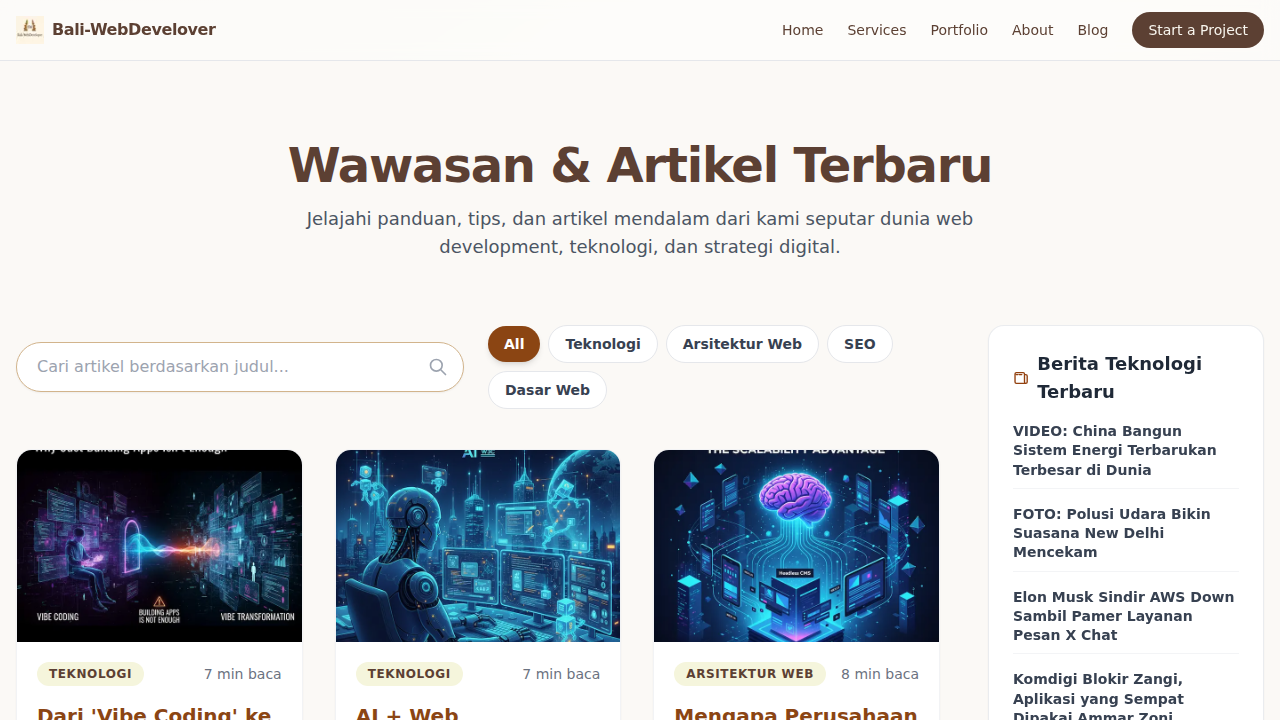
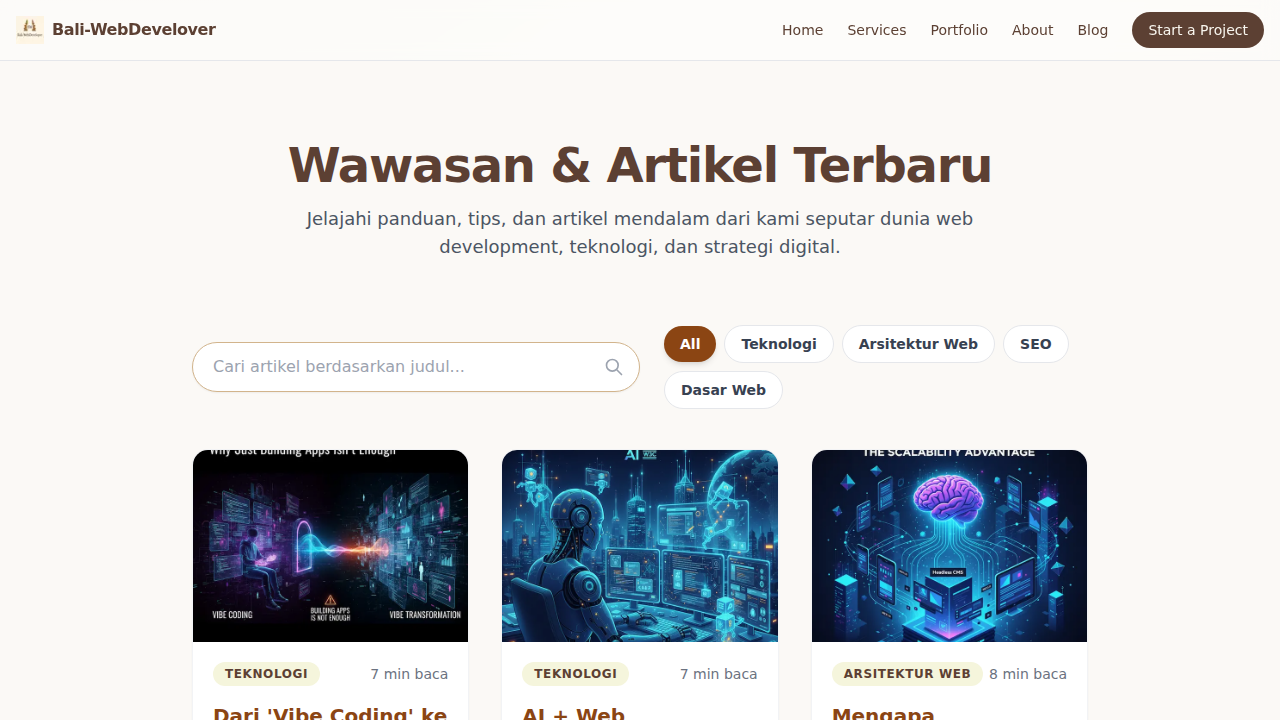
feat: Hapus sidebar berita trending
Menghapus komponen sidebar berita trending ("Berita Teknologi Terbaru") dari halaman daftar blog dan halaman artikel individual sesuai permintaan.

- Menghapus komponen `TrendingNews.tsx`.
- Menghapus file `trends.ts` yang berisi logika untuk mengambil data dari RSS feed.
- Menghapus direktori dan route API `/api/trends`.
- Memperbarui tata letak di `app/blog/page.tsx` dan `app/blog/[slug]/page.tsx` menjadi satu kolom.

Changed region(s): [[0.0, 0.5806, 0.9688, 1.0], [0.0312, 0.4278, 0.9375, 0.55]]

diff --git a/app/blog/[slug]/page.tsx b/app/blog/[slug]/page.tsx
@@ -6,8 +6,6 @@ import { id } from 'date-fns/locale';
 import Image from 'next/image';
 import Link from 'next/link';
 import CtaBanner from '@/app/components/CtaBanner';
-import { getTrendingNews } from '@/app/lib/trends';
-import TrendingNews from '@/app/components/TrendingNews';
 
 type Props = {
   params: { slug: string };
@@ -47,9 +45,6 @@ export default async function PostPage({ params }: Props) {
     notFound();
   }
 
-  // Ambil data berita terbaru
-  const trendingTopics = await getTrendingNews();
-
   // Format tanggal dengan aman
   let formattedDate = '';
   if (post.frontmatter.date) {
@@ -62,50 +57,38 @@ export default async function PostPage({ params }: Props) {
   return (
     <article className="min-h-screen" style={{backgroundColor: '#FBF9F6'}}>
         <div className="container mx-auto px-4 py-12 md:py-20">
-            <div className="max-w-6xl mx-auto">
+            <div className="max-w-4xl mx-auto">
                  {/* Tombol kembali ke halaman blog utama */}
                  <Link href="/blog" className="text-amber-800 hover:text-amber-900 font-semibold mb-8 inline-block">&larr; Kembali ke semua artikel</Link>
 
-                <div className="flex flex-col lg:flex-row lg:space-x-12">
-                    {/* Kolom Utama: Konten Artikel */}
-                    <div className="lg:w-2/3">
-                        {/* Header Artikel */}
-                        <header className="mb-8">
-                            <p className="text-amber-800 font-semibold">{post.frontmatter.category}</p>
-                            <h1 className="mt-2 text-3xl md:text-4xl font-extrabold tracking-tight" style={{color: '#5C4033'}}>
-                                {post.frontmatter.title}
-                            </h1>
-                            <p className="mt-4 text-gray-500 text-sm">{formattedDate}</p>
-                        </header>
+                 {/* Header Artikel */}
+                <header className="mb-8">
+                    <p className="text-amber-800 font-semibold">{post.frontmatter.category}</p>
+                    <h1 className="mt-2 text-3xl md:text-4xl font-extrabold tracking-tight" style={{color: '#5C4033'}}>
+                        {post.frontmatter.title}
+                    </h1>
+                    <p className="mt-4 text-gray-500 text-sm">{formattedDate}</p>
+                </header>
 
-                        {/* Gambar Utama Artikel */}
-                        <div className="relative h-64 md:h-96 w-full rounded-2xl overflow-hidden shadow-lg mb-8">
-                            <Image
-                                src={post.frontmatter.image}
-                                alt={post.frontmatter.title}
-                                fill
-                                className="object-cover"
-                                priority // Prioritaskan gambar utama untuk LCP
-                            />
-                        </div>
+                {/* Gambar Utama Artikel */}
+                <div className="relative h-64 md:h-96 w-full rounded-2xl overflow-hidden shadow-lg mb-8">
+                    <Image
+                        src={post.frontmatter.image}
+                        alt={post.frontmatter.title}
+                        fill
+                        className="object-cover"
+                        priority // Prioritaskan gambar utama untuk LCP
+                    />
+                </div>
 
-                        {/* Konten Artikel MDX yang di-render */}
-                        <div className="prose prose-lg prose-headings:text-amber-900 prose-a:text-amber-800 prose-strong:text-gray-800 max-w-none">
-                            {post.content}
-                        </div>
+                {/* Konten Artikel MDX yang di-render */}
+                <div className="prose prose-lg prose-headings:text-amber-900 prose-a:text-amber-800 prose-strong:text-gray-800 max-w-none">
+                    {post.content}
+                </div>
 
-                        {/* CTA Banner setelah konten artikel */}
-                        <div className="mt-12">
-                            <CtaBanner />
-                        </div>
-                    </div>
-
-                    {/* Sidebar: Berita Terbaru */}
-                    <aside className="lg:w-1/3 mt-12 lg:mt-0">
-                        <div className="sticky top-24">
-                           <TrendingNews topics={trendingTopics} />
-                        </div>
-                    </aside>
+                {/* CTA Banner setelah konten artikel */}
+                <div className="mt-12">
+                    <CtaBanner />
                 </div>
             </div>
         </div>

diff --git a/app/blog/page.tsx b/app/blog/page.tsx
@@ -1,8 +1,6 @@
 import { getAllPostsMetadata } from 'app/lib/posts';
-import { getTrendingNews } from 'app/lib/trends';
 import { Metadata } from 'next';
 import BlogListClient from './BlogListClient'; // <- Impor komponen client kita
-import TrendingNews from 'app/components/TrendingNews';
 
 // Metadata untuk SEO
 export const metadata: Metadata = {
@@ -11,10 +9,9 @@ export const metadata: Metadata = {
 };
 
 // Ini adalah Server Component, tugasnya hanya mengambil data
-export default async function BlogPage() {
+export default function BlogPage() {
   // Ambil semua data di sisi server
   const allPosts = getAllPostsMetadata();
-  const trendingTopics = await getTrendingNews();
 
   return (
     <main className="min-h-screen" style={{backgroundColor: '#FBF9F6'}}>
@@ -28,17 +25,9 @@ export default async function BlogPage() {
           </p>
         </header>
 
-        <div className="grid grid-cols-1 lg:grid-cols-4 gap-12">
-            <div className="lg:col-span-3">
-                {/* Serahkan data 'allPosts' ke komponen client */}
-                <BlogListClient posts={allPosts} />
-            </div>
-            
-            <aside className="lg:col-span-1">
-                <div className="sticky top-24">
-                    <TrendingNews topics={trendingTopics} />
-                </div>
-            </aside>
+        <div className="max-w-4xl mx-auto">
+          {/* Serahkan data 'allPosts' ke komponen client */}
+          <BlogListClient posts={allPosts} />
         </div>
       </div>
     </main>

diff --git a/jules-scratch/verification/verify_blog_page.py b/jules-scratch/verification/verify_blog_page.py
@@ -1,0 +1,19 @@
+from playwright.sync_api import sync_playwright
+
+def run():
+    with sync_playwright() as p:
+        browser = p.chromium.launch(headless=True)
+        page = browser.new_page()
+
+        # Buka halaman daftar blog
+        page.goto("http://localhost:3002/blog")
+
+        # Tunggu hingga header utama terlihat untuk memastikan halaman sudah dimuat
+        page.wait_for_selector('h1:has-text("Wawasan & Artikel Terbaru")')
+
+        # Ambil screenshot dari seluruh halaman
+        page.screenshot(path="jules-scratch/verification/verification.png")
+
+        browser.close()
+
+run()
